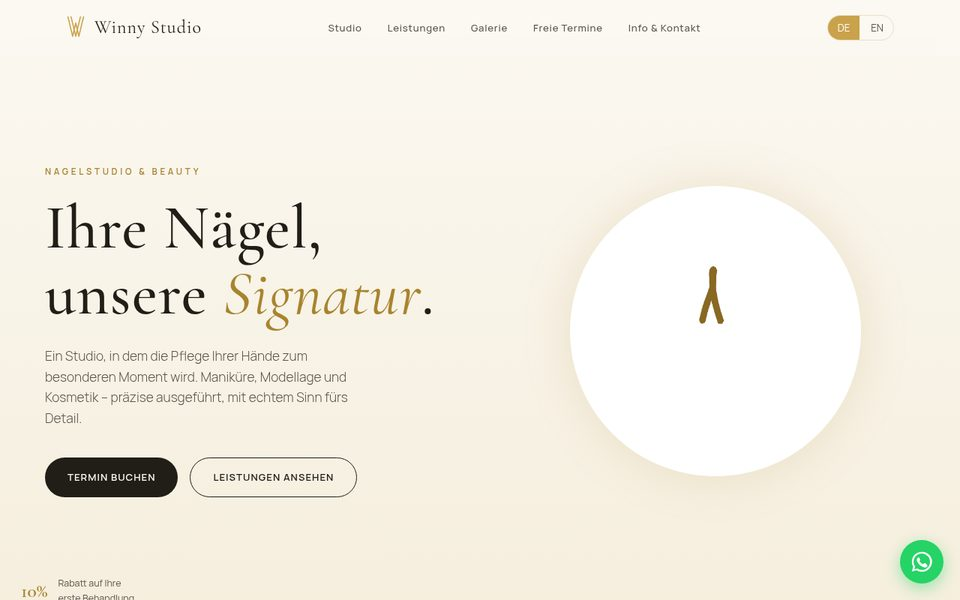
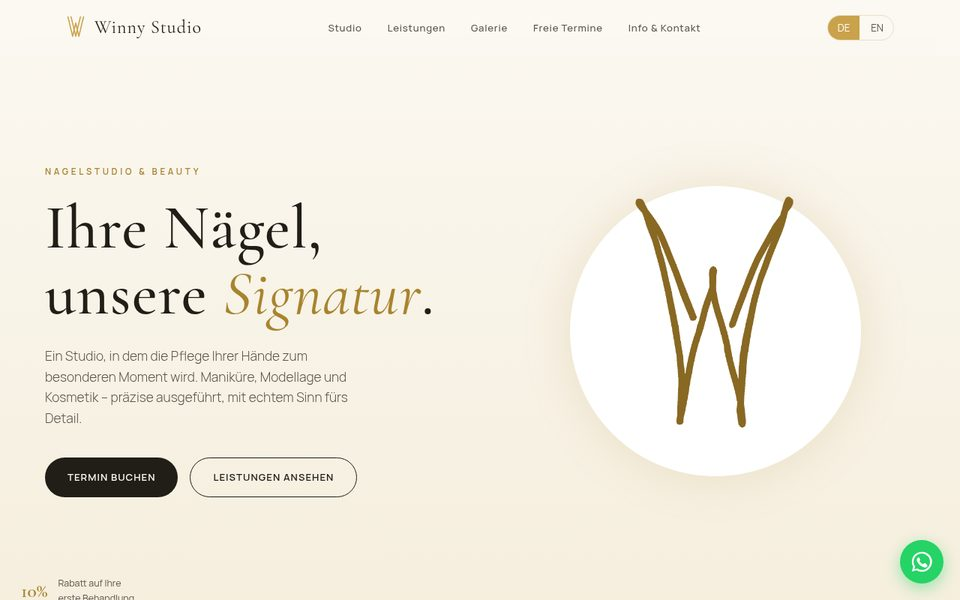
Ajoute la capture du site Winny Studio à la carte

Changed region(s): [[0.6562, 0.33, 0.8438, 0.72]]

diff --git a/styles.css b/styles.css
@@ -131,14 +131,16 @@ img.app-icon { display: block; object-fit: cover; }
   padding: 28px; text-decoration: none; transition: transform .2s, border-color .2s;
 }
 .work-card:hover { transform: translateY(-4px); border-color: var(--coral); }
-.work-logo { flex: none; width: 112px; height: 112px; border-radius: 18px; background: #F8F4EC; display: grid; place-items: center; }
-.work-logo img { max-width: 64px; max-height: 92px; }
-.work-body { display: flex; flex-direction: column; }
+.work-logo { flex: none; width: 72px; height: 72px; border-radius: 14px; background: #F8F4EC; display: grid; place-items: center; }
+.work-logo img { max-width: 40px; max-height: 58px; }
+.work-body { display: flex; flex-direction: column; flex: 1; min-width: 0; }
+.work-shot { flex: 0 0 42%; border-radius: 12px; overflow: hidden; border: 1px solid var(--line); align-self: center; }
+.work-shot img { display: block; width: 100%; height: auto; }
 .work-title { font-family: var(--font-display); font-size: 28px; font-weight: 700; letter-spacing: -0.025em; line-height: 1.1; }
 .work-meta { color: var(--coral-text); font-size: 14px; font-weight: 600; margin: 6px 0 12px; }
 .work-text { color: var(--ink-soft); max-width: 62ch; }
 .work-link { align-self: flex-start; margin-top: 16px; font-weight: 600; border-bottom: 1.5px solid var(--coral); }
-@media (max-width: 640px) { .work-card { flex-direction: column; } }
+@media (max-width: 860px) { .work-card { flex-direction: column; } .work-shot { flex-basis: auto; width: 100%; } }
 
 /* Approach */
 .approach { background: var(--bg-soft); color: #EDEBFA; position: relative; overflow: hidden; }

diff --git a/index.html b/index.html
@@ -98,6 +98,7 @@
             <span class="work-text">Site bilingue allemand et anglais : prestations et tarifs modifiables sans toucher au code, galerie, créneaux libres affichés en direct et demande de rendez-vous confirmée sur WhatsApp. Avec un agenda interne pour l'équipe, en allemand et vietnamien, qui pilote les disponibilités affichées sur le site.</span>
             <span class="work-link">winnystudio.de ↗</span>
           </span>
+          <span class="work-shot"><img src="assets/clients/winny-studio-site.jpg" alt="Page d'accueil du site Winny Studio" width="960" height="600" loading="lazy"></span>
         </a>
       </div>
     </section>
